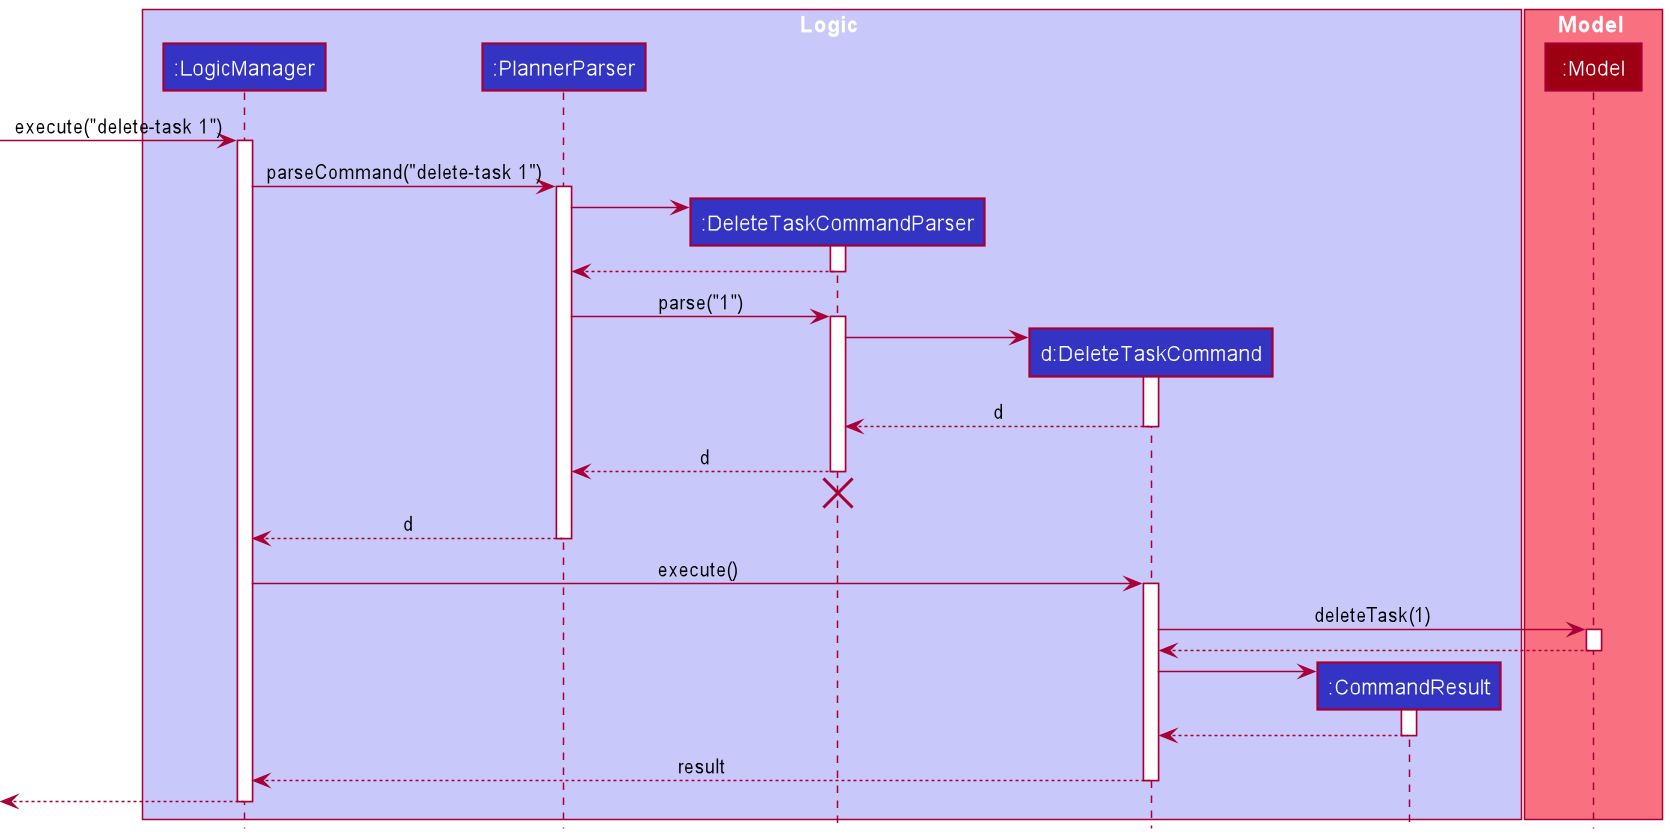
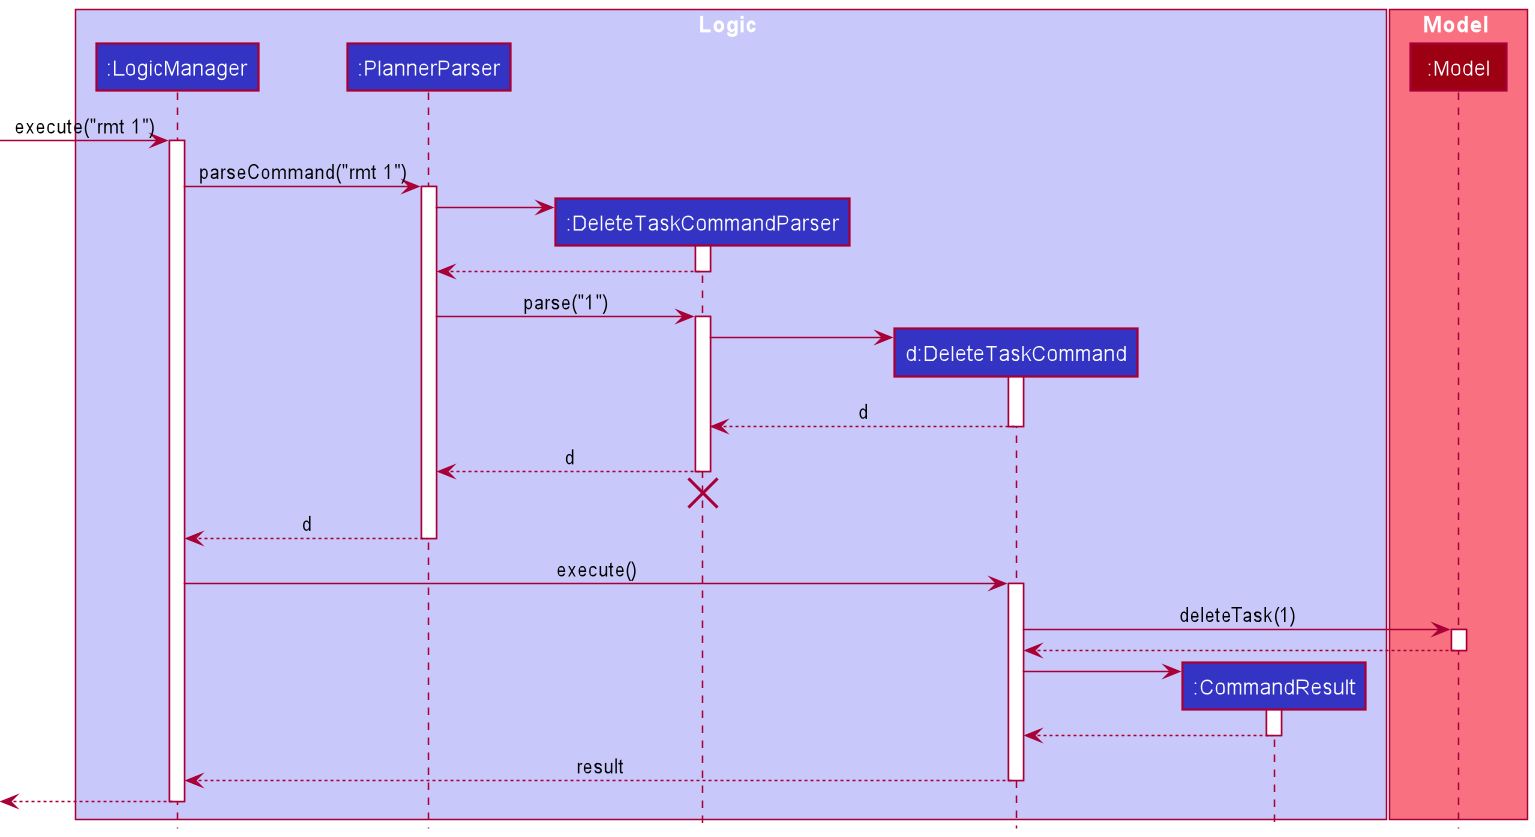
Update DG and UML diagram bugs

diff --git a/docs/DeveloperGuide.md b/docs/DeveloperGuide.md
@@ -51,7 +51,7 @@ For example, the `Logic` component (see the class diagram given below) defines i
 
 **How the architecture components interact with each other**
 
-The *Sequence Diagram* below shows how the components interact with each other for the scenario where the user issues the command `delete-task 1`.
+The *Sequence Diagram* below shows how the components interact with each other for the scenario where the user issues the command `rmt 1`.
 
 <img src="images/ArchitectureSequenceDiagram.png" width="574" />
 
